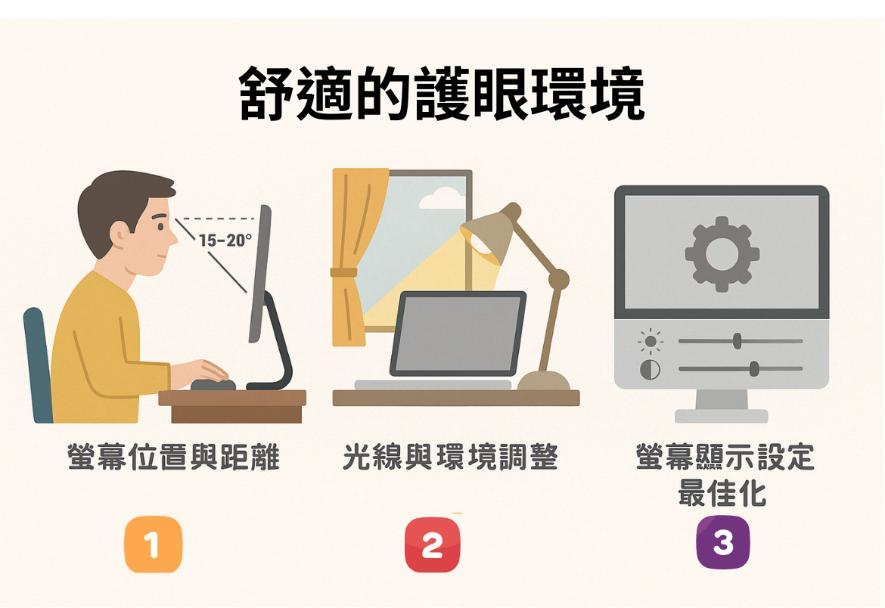
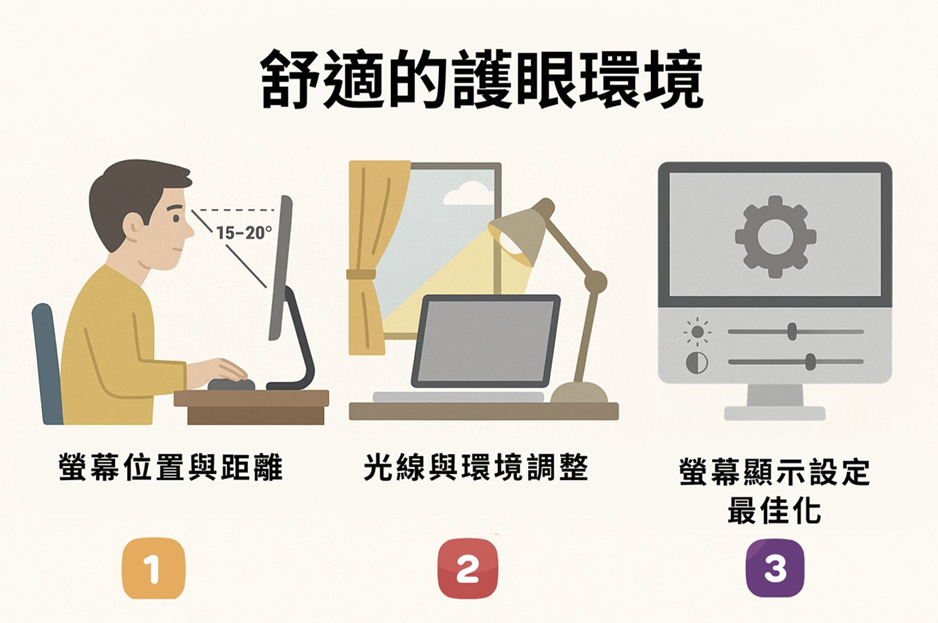
123

diff --git a/Employee6-9-01.html b/Employee6-9-01.html
@@ -121,7 +121,7 @@ body {
 				
 			
 			<tr>
-             <td align="center"><img src="images/6/6-9-1/02.jpg" alt="" width="855" height="608" border="0" /></td>
+             <td align="center"><img src="images/6/6-9-1/02.jpg" alt="" width="750" height="498" border="0" /></td>
            </tr>
 			 <tr>
              <td><p>&nbsp;</p>
